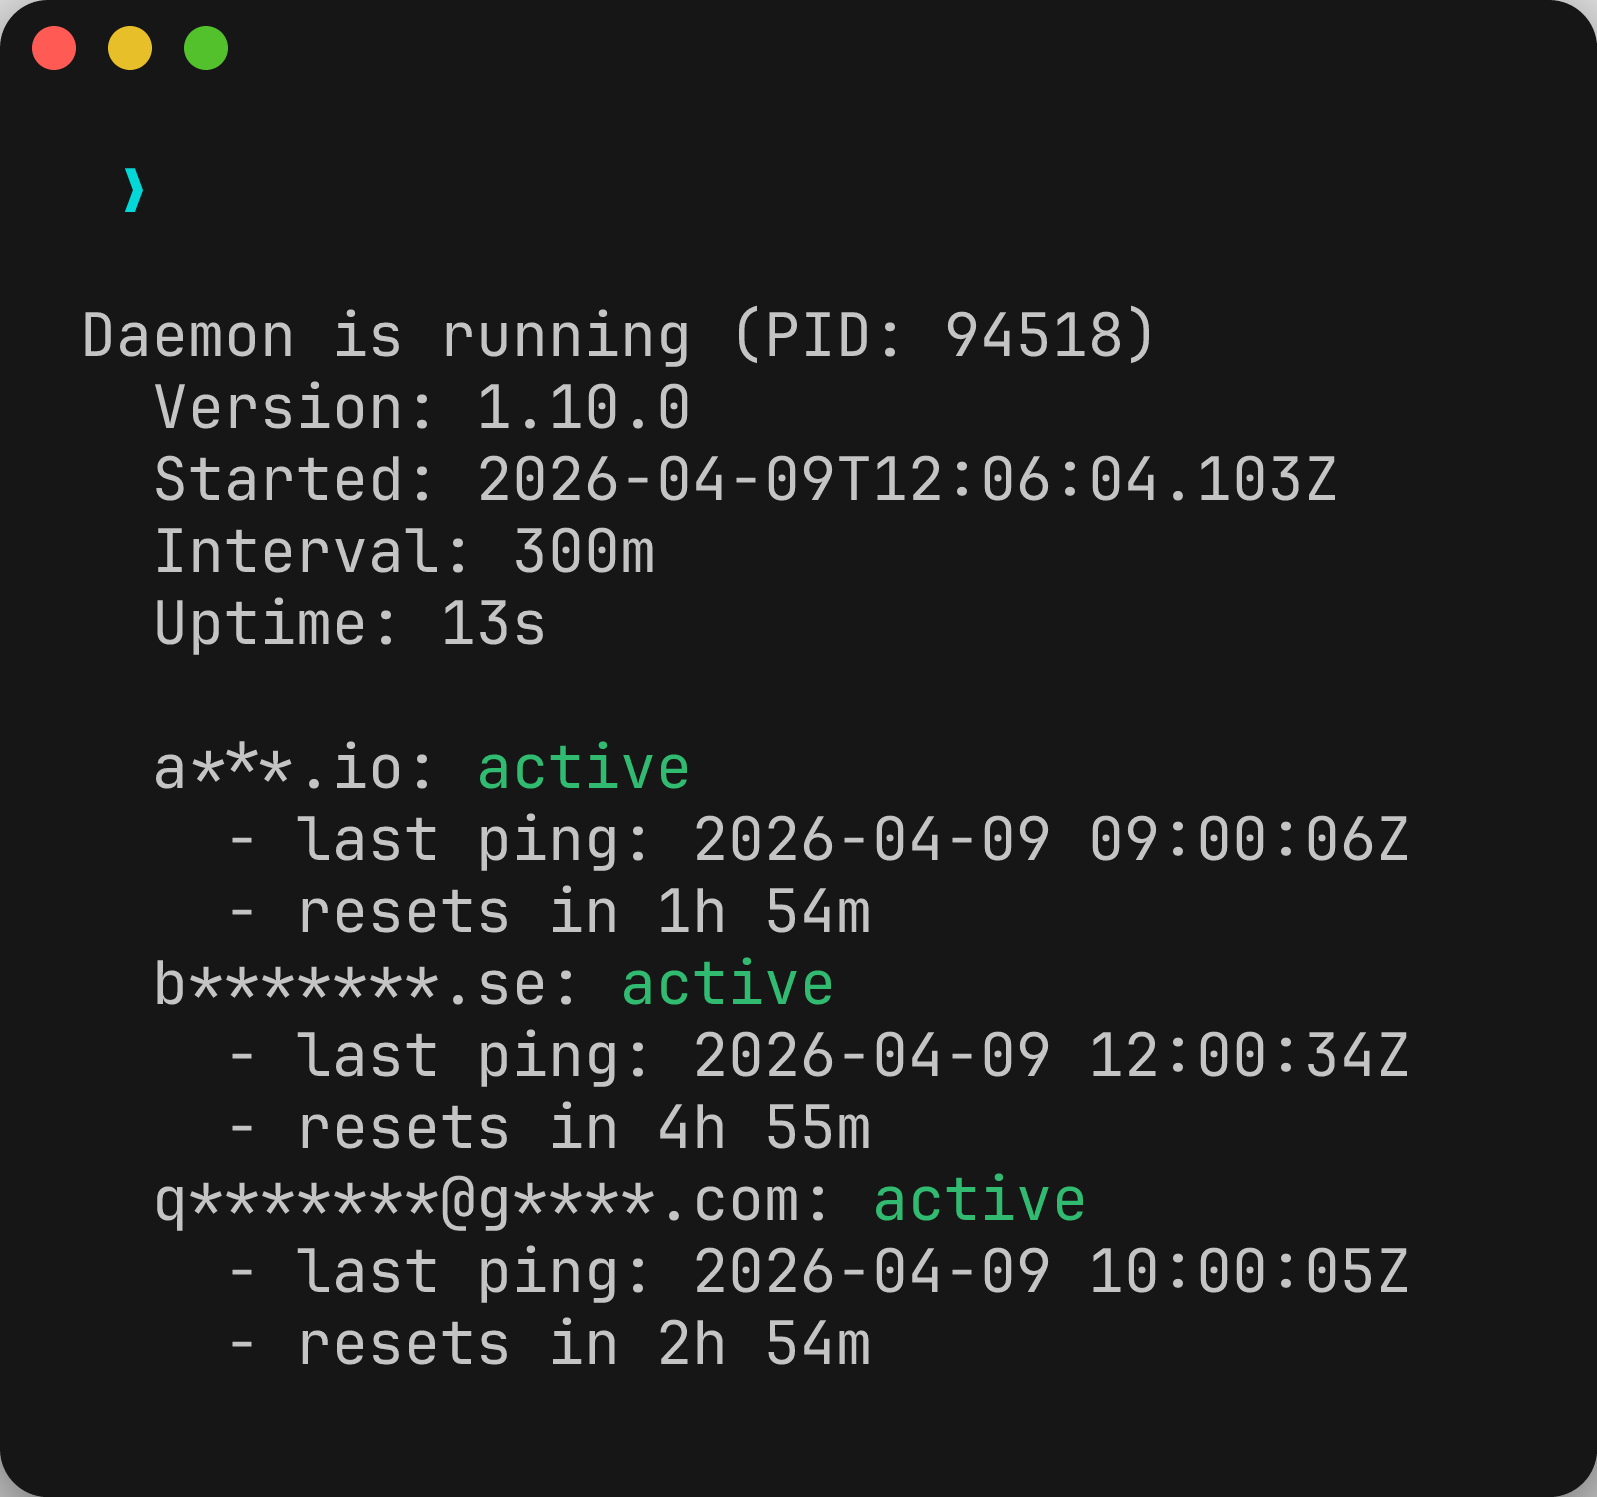
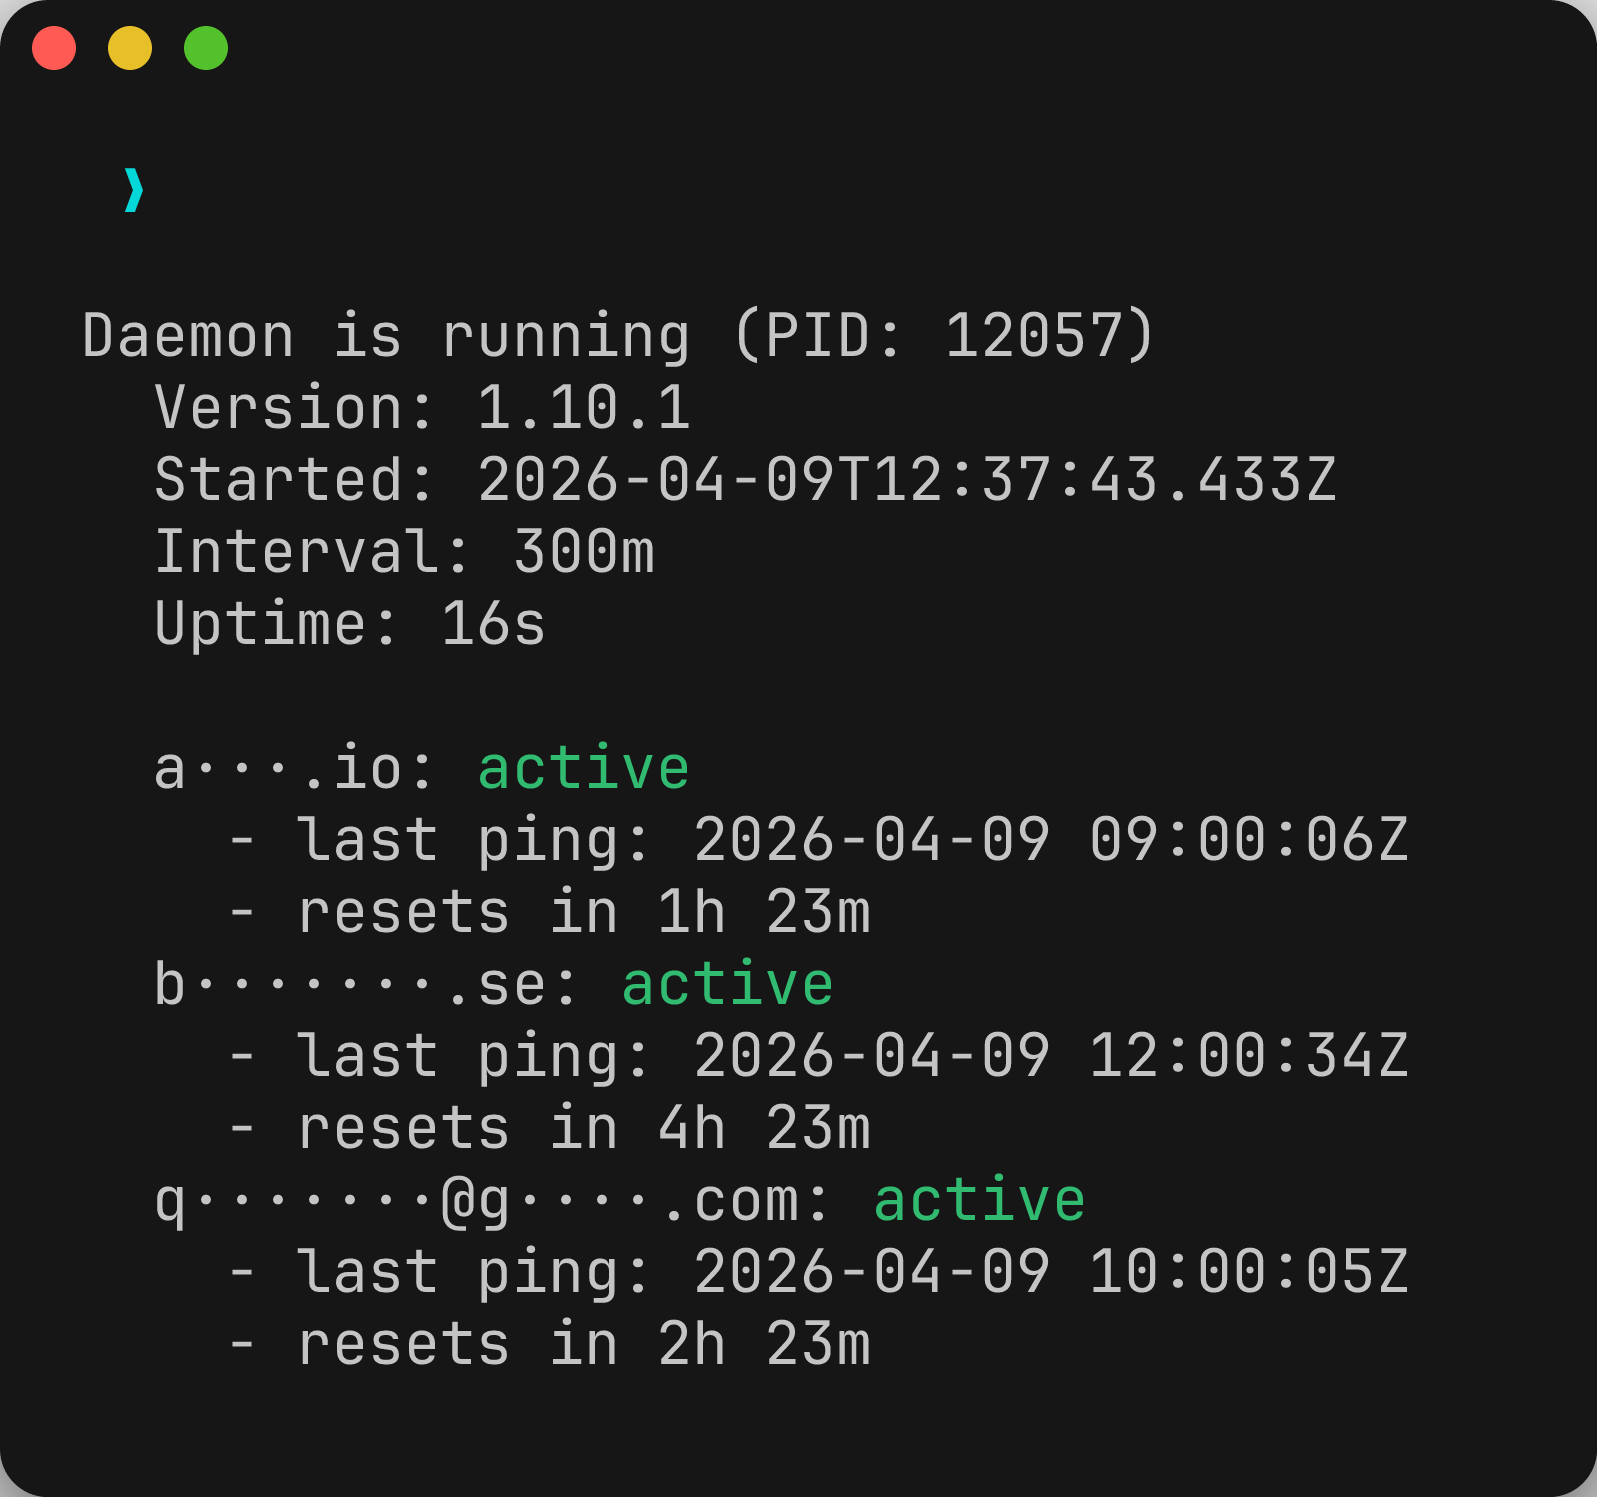
fix: use middle dot for handle censoring to avoid font ligature artifacts
Asterisks triggered JetBrains Mono ligatures in the README screenshot,
causing elevated characters. Middle dot (·) renders uniformly.

diff --git a/src/status.test.ts b/src/status.test.ts
@@ -302,7 +302,7 @@ describe("formatStatusLine", () => {
       },
       { censor: true },
     );
-    expect(line).toContain("q*******@g****.com");
+    expect(line).toContain("q·······@g····.com");
     expect(line).not.toContain("qvazzler");
   });
 
@@ -320,22 +320,22 @@ describe("formatStatusLine", () => {
       },
       { censor: true },
     );
-    expect(line).toContain("[duplicate of b*******]");
+    expect(line).toContain("[duplicate of b·······]");
     expect(line).not.toContain("[duplicate of bernting]");
   });
 });
 
 describe("censorHandle", () => {
   it("masks email handles keeping first char and TLD", () => {
-    expect(censorHandle("qvazzler@gmail.com")).toBe("q*******@g****.com");
+    expect(censorHandle("qvazzler@gmail.com")).toBe("q·······@g····.com");
   });
 
   it("masks domain-style handles keeping first char and TLD", () => {
-    expect(censorHandle("bernting.se")).toBe("b*******.se");
+    expect(censorHandle("bernting.se")).toBe("b·······.se");
   });
 
   it("masks short handles", () => {
-    expect(censorHandle("akka.io")).toBe("a***.io");
+    expect(censorHandle("akka.io")).toBe("a···.io");
   });
 
   it("returns single-char handles as-is", () => {

diff --git a/src/status.ts b/src/status.ts
@@ -49,7 +49,7 @@ export function censorHandle(handle: string): string {
 
 function censorPart(part: string): string {
   if (part.length <= 1) return part;
-  return part[0] + "*".repeat(part.length - 1);
+  return part[0] + "·".repeat(part.length - 1);
 }
 
 function censorDomain(domain: string): string {
